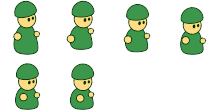
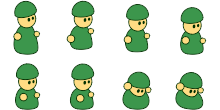
ftr(*): balance

Changed region(s): [[0.5455, 0.6273, 0.7091, 1.0], [0.7909, 0.6545, 0.9273, 1.0]]

diff --git a/minesweeper/src/game/minesweeper/Minesweeper.js b/minesweeper/src/game/minesweeper/Minesweeper.js
@@ -75,6 +75,7 @@ export default class Minesweeper {
         me._audio = audio;
         me._mineTheme = mineTheme;
         me._needTutorial = status.level == Consts.FirstLevel;
+        me._needKillByShot = status.level == Consts.FirstLevel;
         me._transfer = transfer;
 
         scene.add.image(
@@ -452,7 +453,11 @@ export default class Minesweeper {
         const position = soldier.toPoint();
         const fromRight = position.x < Consts.Viewport.Width / 2;
 
-        const isDeath = Utils.getRandom(1, 100, 99) <= Config.Levels[me._status.level].TimerDeathProbability;
+        const isDeath = me._needKillByShot || Utils.getRandom(1, 100, 99) <= Config.Levels[me._status.level].TimerDeathProbability;
+        me._needKillByShot = false;
+
+        if (!isDeath)
+            me._soldiers[soldierIndex]._sprite.play('soldier_dodge');
 
         const shot = me._graphics.createShot(Utils.buildPoint(
             fromRight ? Consts.Viewport.Width + Consts.UnitMiddle : -Consts.UnitMiddle,
@@ -486,7 +491,7 @@ export default class Minesweeper {
                         soldier.getCellIndex(),
                         Enums.Death.Shot);
                 }
-                else
+                else 
                     me._finishStep();
             }
         });

diff --git a/minesweeper/src/game/Config.js b/minesweeper/src/game/Config.js
@@ -4,24 +4,24 @@ export default class Config {
         Global: false,
         Log: true,
         ShowSceneLog: false,
-        PlaySound: true,
+        MuteSound: false,
         Random: false,
         Level: true,
         Restart: true,
-        Mines: true,
+        Mines: false,
         TweenSpeed: false,
         Timer: false,
         LevelName: true
     };
 
-    static Timer = 10000;
+    static Timer = 5000;
 
     static Field = {
         Width: 10,
         Height: 10
     };
 
-    static StartLevelIndex = 1;
+    static StartLevelIndex = 2;
 
     static DebugMines = [
         [2, 2, 2, 2, 2, 2, 2, 2, 2, 2],
@@ -60,11 +60,11 @@ export default class Config {
         },
         //1
         {
-            Mines: 21,
+            Mines: 20,
             TimerDeathProbability: 40,
             ReserveStartCount: 0,
             StartInCity: true,
-            CitizenCount: 20,
+            CitizenCount: 30,
             MinCitizenSpeed: 300,
             MaxCitizenSpeed: 300,
         },

diff --git a/minesweeper/src/game/utils/Audio.js b/minesweeper/src/game/utils/Audio.js
@@ -21,8 +21,9 @@ export default class Audio {
     play(sound, config) {
         const me = this;
 
-        Utils.ifDebug(Config.Debug.PlaySound, () => {
-            me._scene.sound.play(sound, !!config ? config : null);
-        });
+        if (Utils.isDebug(Config.Debug.MuteSound))
+            return;
+
+        me._scene.sound.play(sound, !!config ? config : null);
     }
 }

diff --git a/minesweeper/src/game/utils/Animation.js b/minesweeper/src/game/utils/Animation.js
@@ -48,6 +48,12 @@ export default class Animation {
             repeat: -1
         });
 
+        scene.anims.create({
+            key: 'soldier_dodge',
+            frames: Animation.getFrames(scene, 'soldiers', [ 6, 7, 6, 7, 6, 7, 6, 7, 0 ]),
+            frameRate: 8,
+        });
+
         for (let i = 0; i < 4; ++i) {
 
             const indicies = [];
